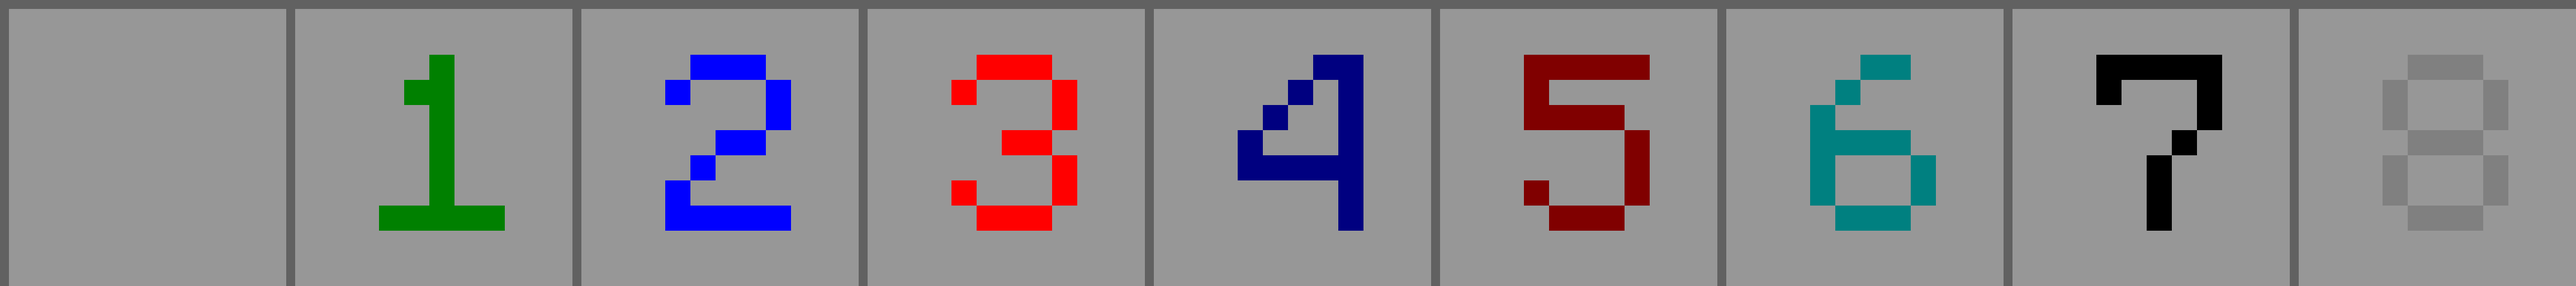
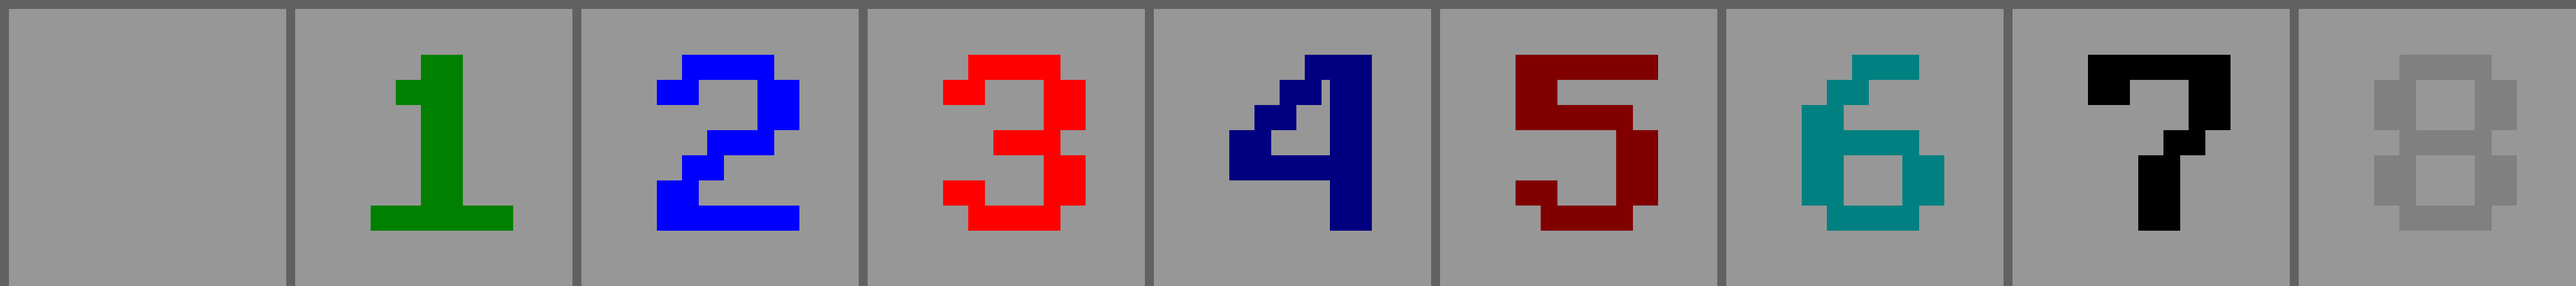
setting tile numbers to use bold font

diff --git a/src/generate_tile_numbers.c b/src/generate_tile_numbers.c
@@ -102,6 +102,7 @@ int main()
 	SDL_Renderer *renderer = SDL_CreateRenderer(window, -1, SDL_RENDERER_ACCELERATED | SDL_RENDERER_TARGETTEXTURE);
 
 	TTF_Font *font = TTF_OpenFont("resources/Minecraftia-Regular.ttf", 24);
+	TTF_SetFontStyle(font, TTF_STYLE_BOLD);
 	SDL_Texture *numbers[8];
 	for (int i = 0; i < 8; i++)
 		numbers[i] = get_number(renderer, font, i + 1, c[i]);
@@ -118,8 +119,6 @@ int main()
 	SDL_FreeSurface(spritesheet);
 
 	SDL_Texture *texture = SDL_CreateTextureFromSurface(renderer, res);
-	// render_nb(renderer, font, texture, numbers, 512);
-	// save_renderer(file_target, renderer);
 
 	SDL_Event e;
 	int is_open = 1;
